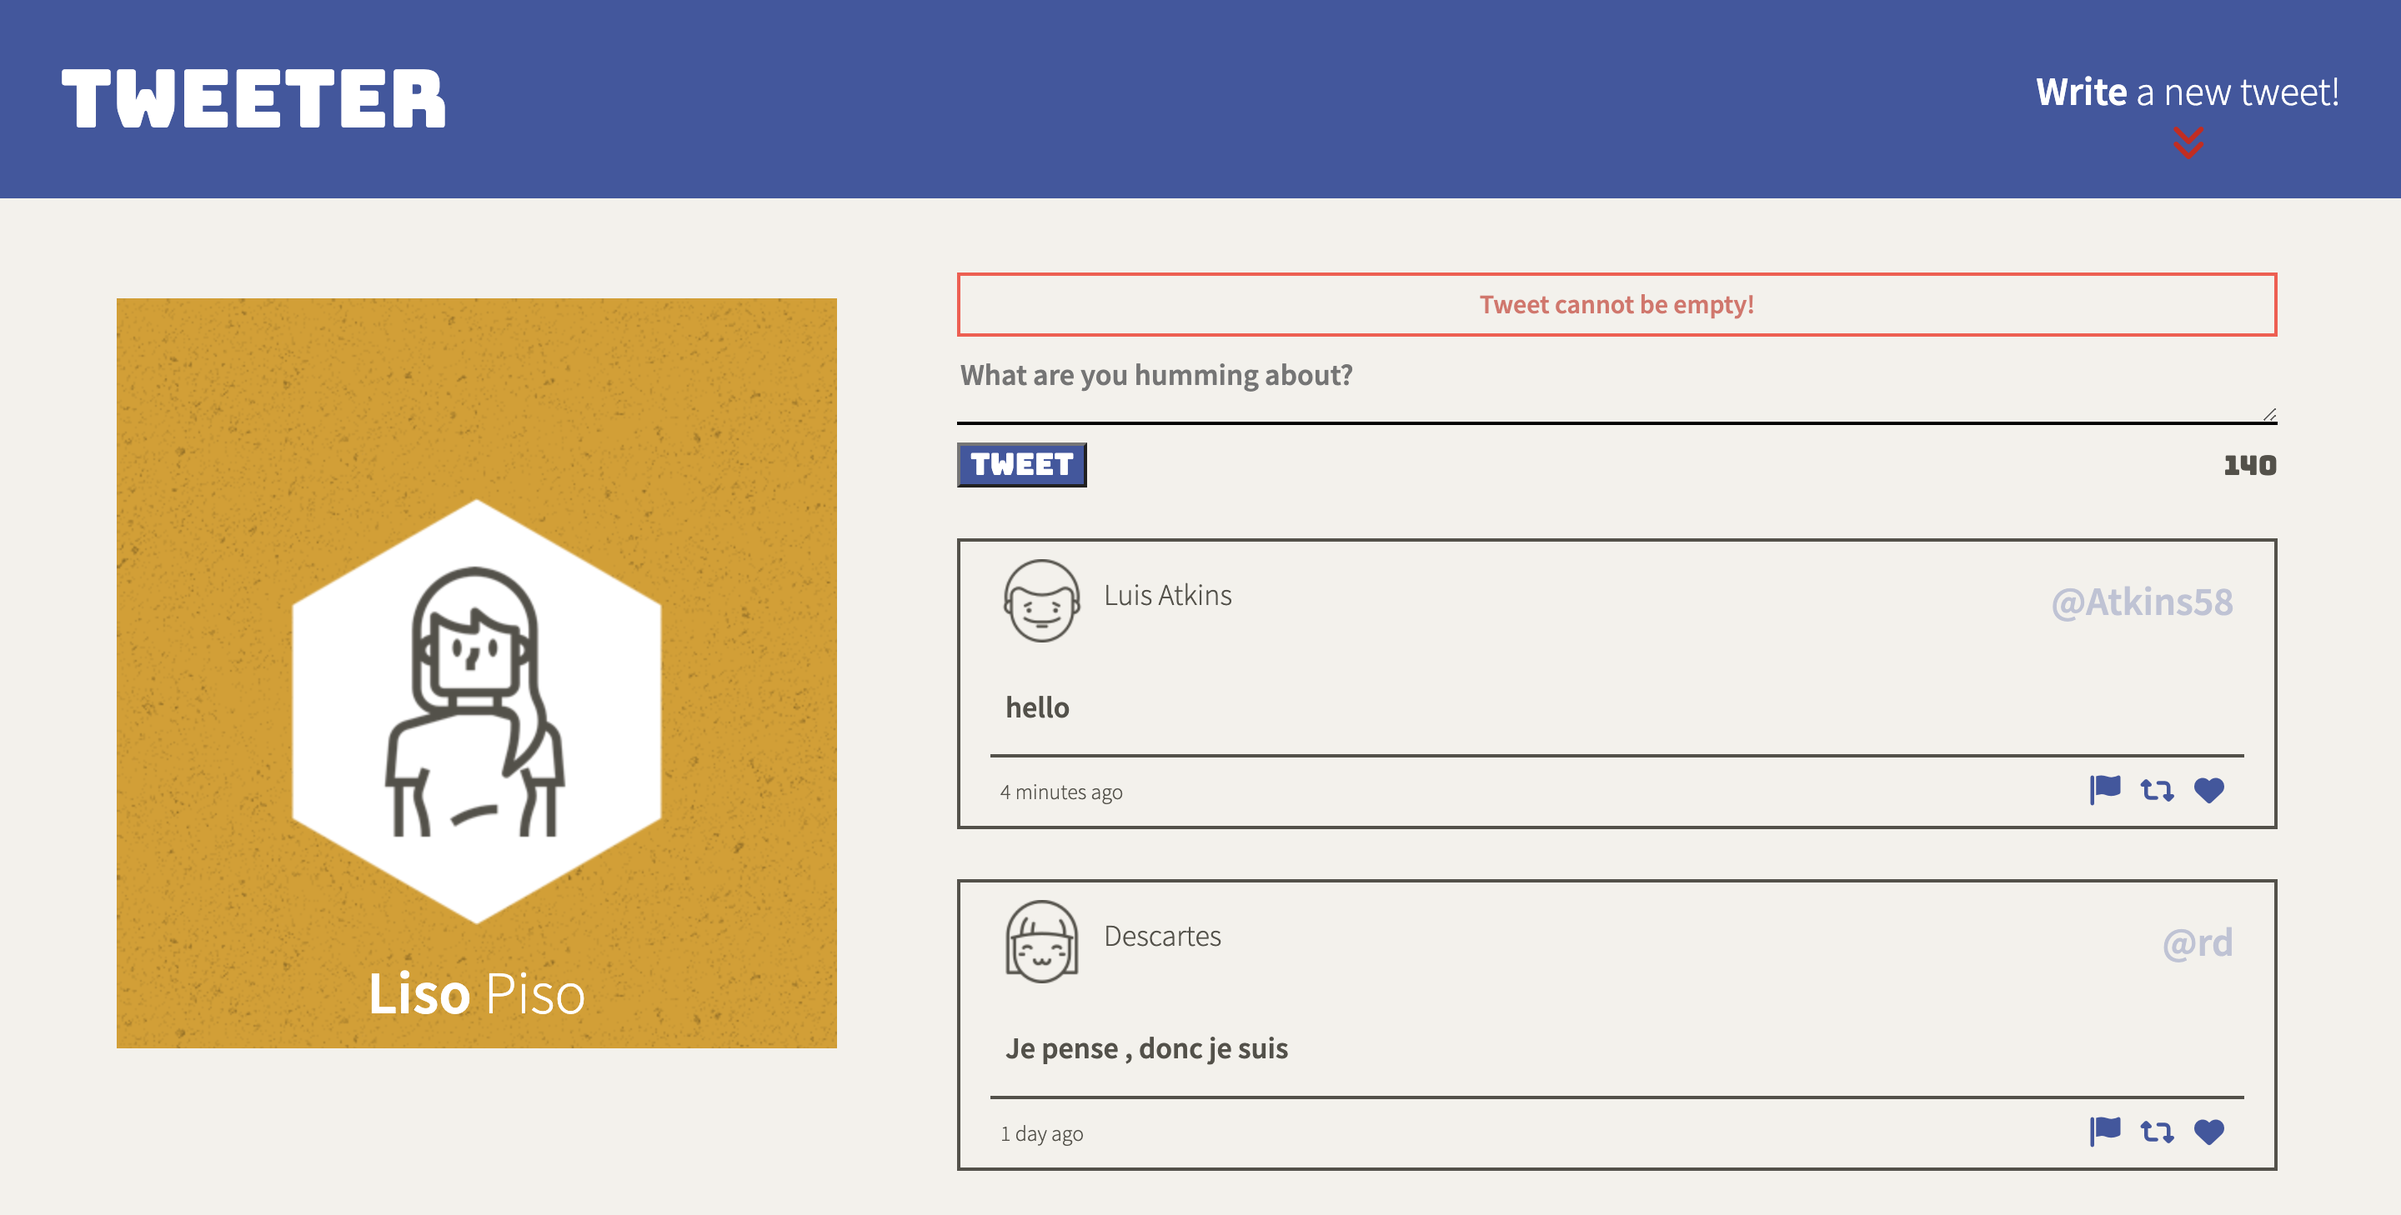
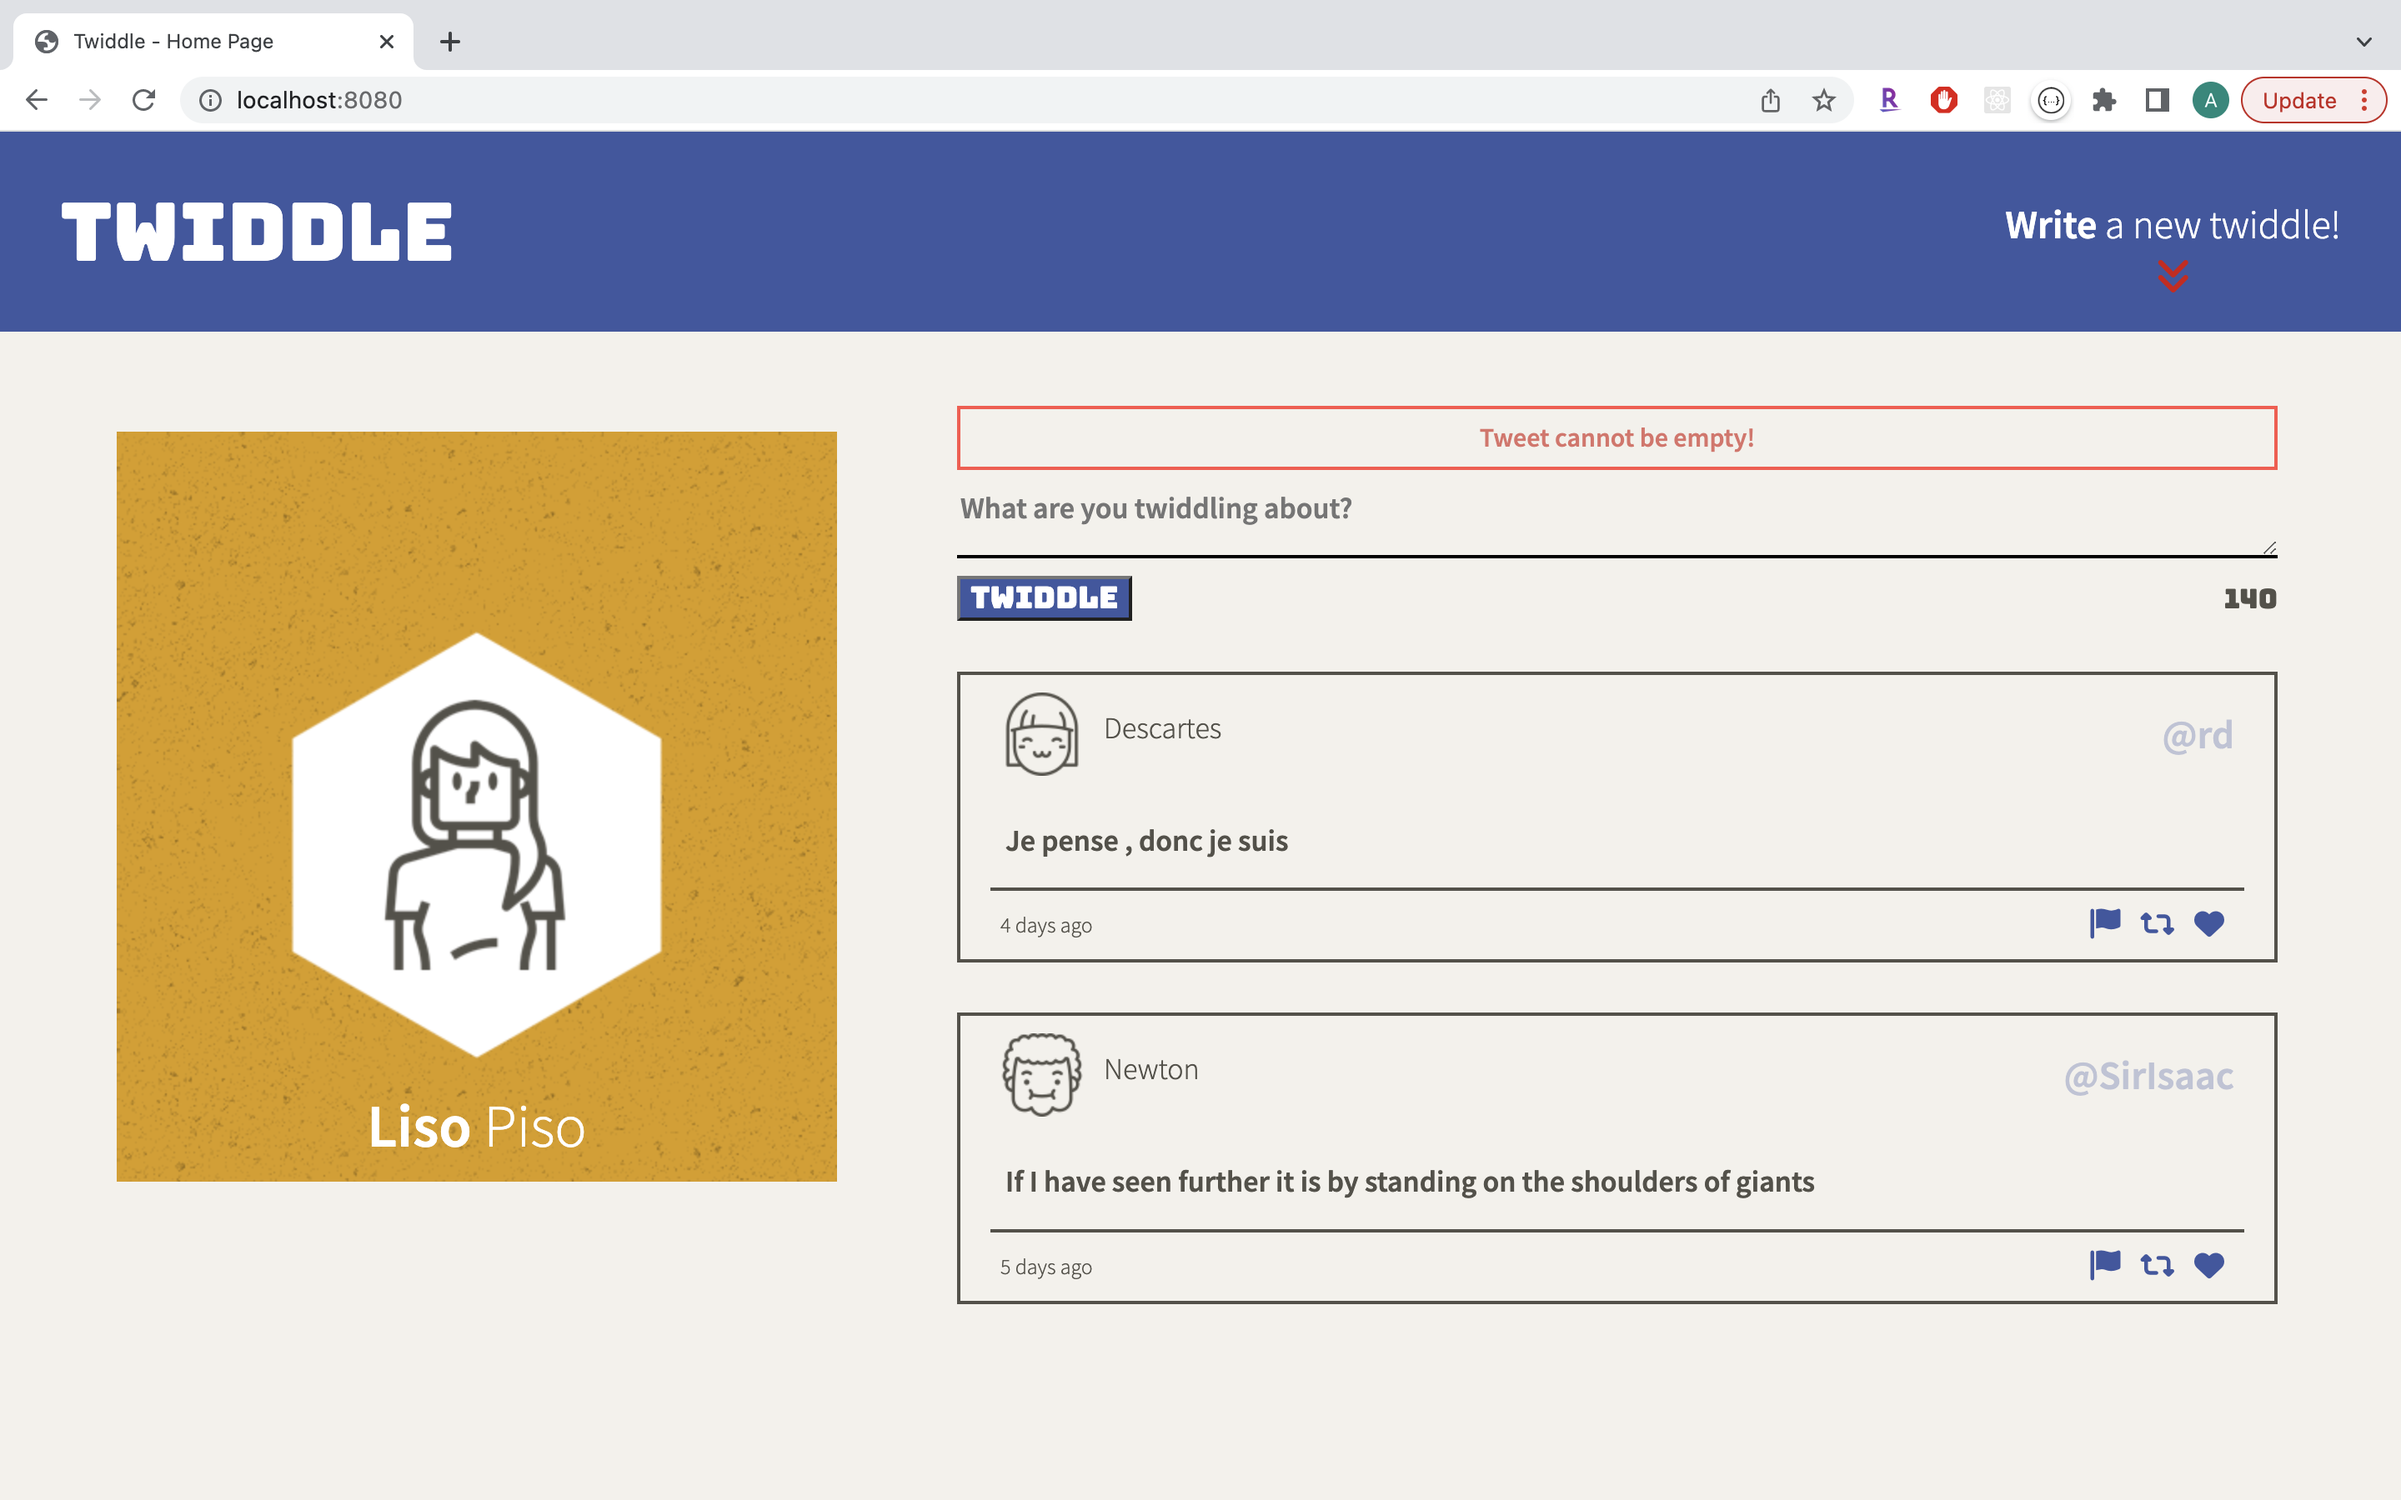
README.md and styling

diff --git a/public/index.html b/public/index.html
@@ -2,7 +2,7 @@
 <html lang="en">
   <head>
     <!-- Meta Information -->
-    <title>Tweeter - Home Page</title>
+    <title>Twiddle - Home Page</title>
 
     <!-- External CSS -->
     <link
@@ -59,11 +59,11 @@
   <body>
     <!-- Top nav bar (fixed) -->
     <nav>
-      <span id="logo">tweeter</span>
+      <span id="logo">twiddle</span>
       <div class="right-side-nav">
         <p>
           <span class="bolded">Write</span>
-          <span class="light">a new tweet!</span>
+          <span class="light">a new twiddle!</span>
         </p>
         <button class="scroll">
           <i class="fa-solid fa-angles-down"></i>
@@ -94,10 +94,10 @@
             name="text"
             id="tweet-text"
             rows="1"
-            placeholder="What are you humming about?"
+            placeholder="What are you twiddling about?"
           ></textarea>
           <div class="bottom-tray">
-            <button class="tweet-button" type="submit">Tweet</button>
+            <button class="tweet-button" type="submit">Twiddle</button>
             <output name="counter" class="counter" for="tweet-text">140</output>
           </div>
         </form>

diff --git a/README.md b/README.md
@@ -1,22 +1,22 @@
-# Tweeter - A Front End Project
+# Twiddle - A Front End Project
 
-Tweeter is a simple, single-page Twitter clone.
+Twiddle is a simple, single-page Twitter clone.
 
 - Utilizing HTML, CSS, JS, Jquery, Ajax requests and a backend of NodeJS, Express, and an in-memory-Object database.
 
 ## Final Product
 
-### Main Tweeter page
+### Main Twiddle page
 
-!["Main Tweeter page"](https://github.com/vorotyna/tweeter/blob/master/docs/main-page.png?raw=true)
+!["Main Twiddle page"](https://github.com/vorotyna/tweeter/blob/master/docs/main-page.png?raw=true)
 
-### Main Tweeter page with error
+### Main Twiddle page with error
 
-!["Main Tweeter page with error"](https://github.com/vorotyna/tweeter/blob/master/docs/error-message.png?raw=true)
+!["Main Twiddle page with error"](https://github.com/vorotyna/tweeter/blob/master/docs/error-message.png?raw=true)
 
-### Responsive Tweeter page for mobile view
+### Responsive Twiddle page for mobile view
 
-!["Responsive Tweeter page for mobile view"](https://github.com/vorotyna/tweeter/blob/master/docs/mobile.png?raw=true)
+!["Responsive Twiddle page for mobile view"](https://github.com/vorotyna/tweeter/blob/master/docs/mobile.png?raw=true)
 
 ## Getting Started
 
